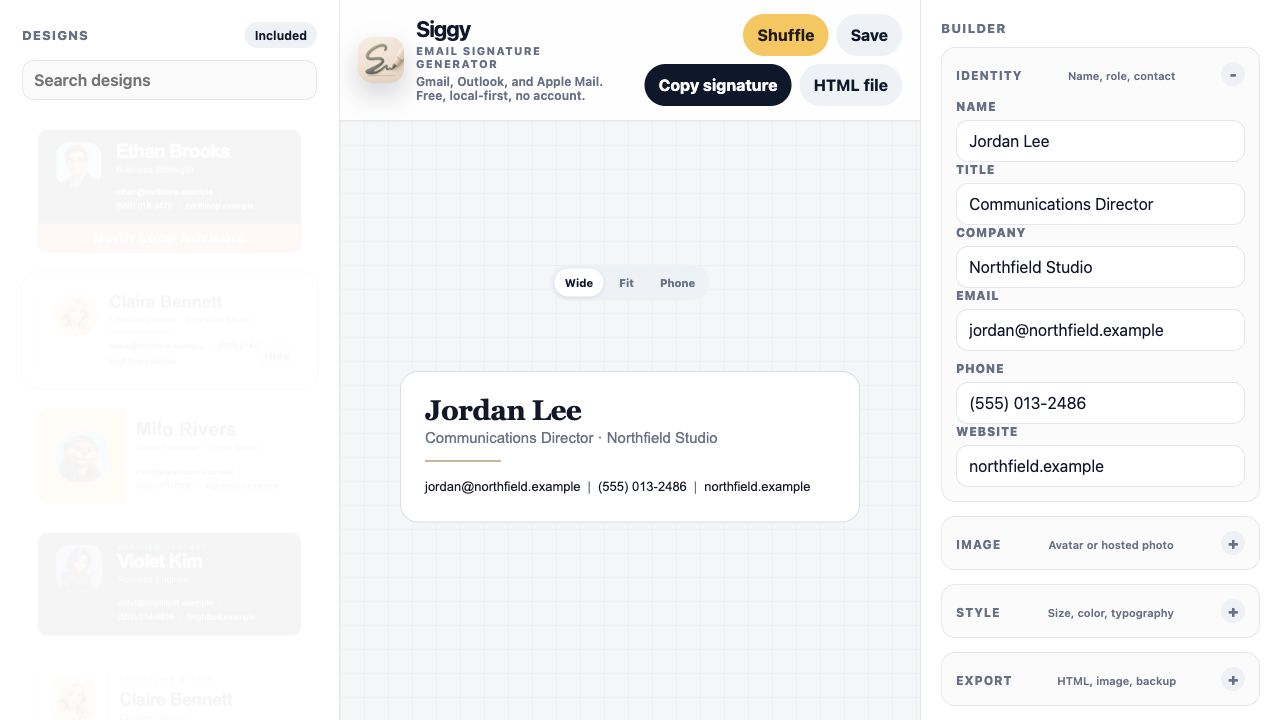
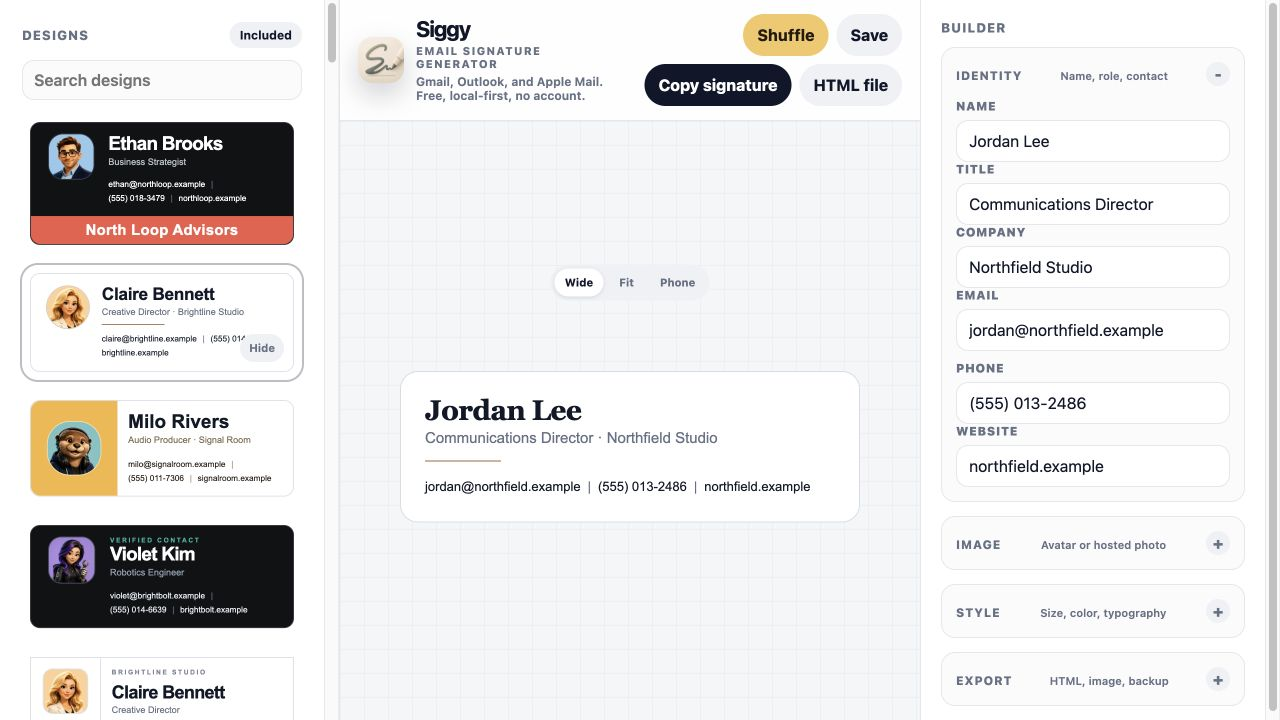
Show signature editing and built-in design examples

diff --git a/docs/screenshots/README.md b/docs/screenshots/README.md
@@ -1,3 +1,9 @@
 # Screenshot sources
 
-Captured October 26, 2026 from the local app with its built-in sample identity and designs.
+Captured October 29, 2026 from the actual application interface. Example content
+is used throughout; no private libraries, contacts, cookies, or credentials are
+shown. Images are original browser captures, not AI-generated interface mockups
+or enlarged low-resolution copies. Website presentation keeps the complete
+interface and links to the original capture.
+
+The included examples and fictitious contact details are used for these captures.

diff --git a/README.md b/README.md
@@ -23,6 +23,9 @@ Real app captures. [Explore the full-size showcase](https://barryanders.github.i
 
 ![Signature builder with sample contact details](docs/screenshots/signature-builder.jpg)
 
+![Warm signature design with a built-in avatar](docs/screenshots/sunrise-design.jpg)
+
+
 ## Email Signature Cards
 
 Siggy helps you design reusable email signatures with a card-based look. It is built for people who want something more distinctive than a plain name/title footer while still keeping the generated HTML practical for Gmail, Outlook, Apple Mail, and other email clients.
